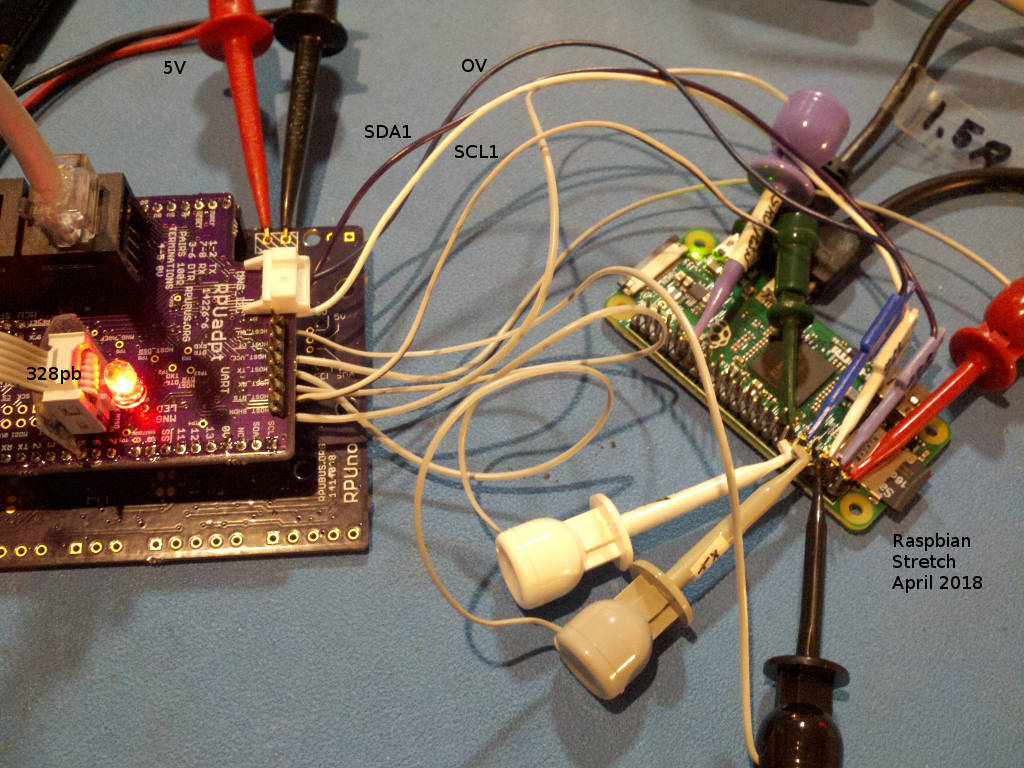
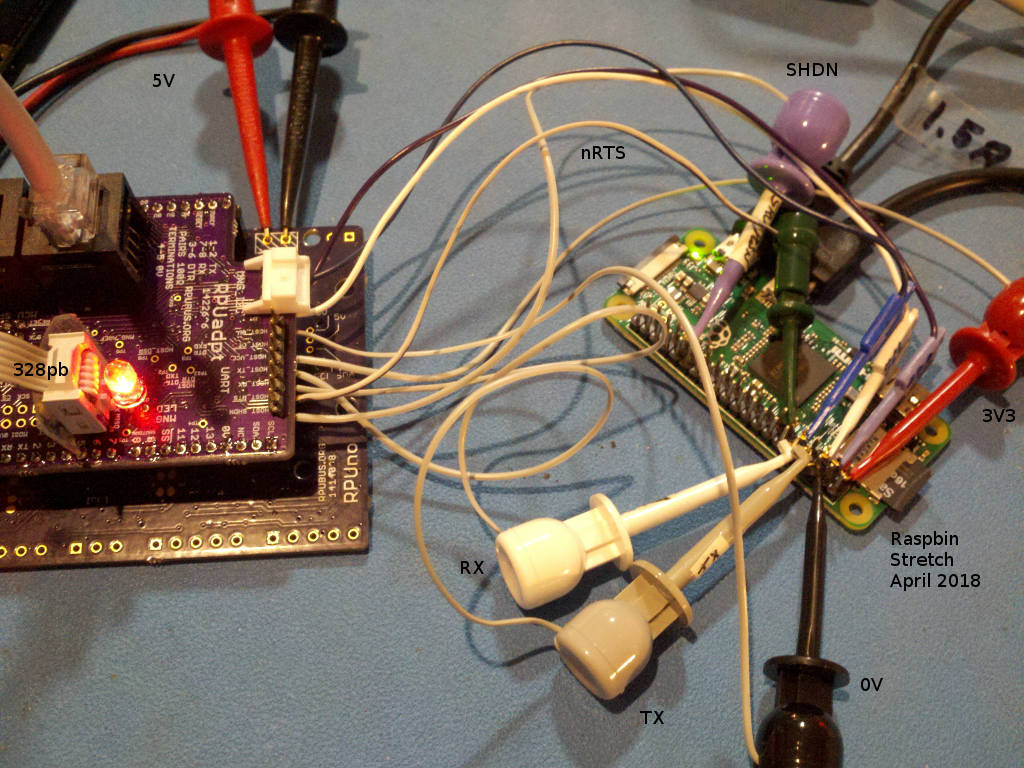
Hardware: ^6 eval spi

diff --git a/Hardware/Evaluation/readme.md b/Hardware/Evaluation/readme.md
@@ -22,7 +22,88 @@ This shows the setup and method used for evaluation of RPUadpt.
 
 ## ^6 SPI Checked With Raspberry Pi
 
-To Do.
+The unit under test is at address '1'. So first I need to bootload its local RPU (a junk RPUno^8) with [SpiSlv].
+
+[SpiSlv]:https://github.com/epccs/RPUno/tree/master/SpiSlv
+
+Set the booload address on what ever shield is connected to the host that will build [SpiSlv] and upload it. Guess I will just use the new I2C1 interface to do this.
+
+``` 
+# first set user premision to use the SPI port
+sudo usermod -a -G spi rsutherland
+python3
+import smbus
+bus = smbus.SMBus(1)
+bus.write_i2c_block_data(42, 0, [0])
+chr(bus.read_i2c_block_data(42,0, 2)[1])
+'1'
+# with command 0 on I2C1 the local address is was seen as ascii '1' or 49
+bus.write_i2c_block_data(42, 2, [0])
+chr(bus.read_i2c_block_data(42,0, 2)[1])
+'0'
+# command 2 showed the bootload address which was '0'
+# which will be canged to '1' with command 3
+bus.write_i2c_block_data(42, 3, [49])
+chr(bus.read_i2c_block_data(42,0, 2)[1])
+'1'
+bus.write_i2c_block_data(42, 7, [0])
+print(bus.read_i2c_block_data(42,0, 2))
+[7, 0]
+# command 7 was used to clear the local status bits, the host lockout bit was set at power up.
+exit()
+# next check that RPU '1' is blinking fast
+picocom -b 38400 /dev/ttyAMA0
+...
+Terminal ready
+# C-a, C-x.
+# now change the working directory to where SpiSlv is and then build and upload
+cd ~/wher_you_told_git_to_clone/RPUno/SpiSlv
+make bootload
+...
+avrdude done.  Thank you.
+gcc -o spidev_test spidev_test.c
+chmod ugo+x ./spidev_test
+# logout for the change to take
+# trun on the RPU SPI port
+picocom -b 38400 /dev/ttyAMA0
+...
+Terminal ready
+/1/id?
+{"id":{"name":"SpiSlv","desc":"RPUno (14140^9) Board /w atmega328p","avr-gcc":"4.9.2"}}
+/1/spi UP
+{"SPI":"UP"}
+# C-a, C-x.
+# test with
+./spidev_test -s 1000 -D /dev/spidev0.0
+./spidev_test -s 10000 -D /dev/spidev0.0
+./spidev_test -s 100000 -D /dev/spidev0.0
+./spidev_test -s 250000 -D /dev/spidev0.0
+./spidev_test -s 500000 -D /dev/spidev0.0
+# next test fail on my setup which is using a weak pullup 
+# for SCK, nSS, and MOSI that input into a ATmega328p
+./spidev_test -s 1000000 -D /dev/spidev0.0
+./spidev_test -s 2000000 -D /dev/spidev0.0
+```
+
+The test output should look like this
+
+```
+spi mode: 0
+bits per word: 8
+max speed: 500000 Hz (500 KHz)
+
+0D FF FF FF FF FF
+FF 40 00 00 00 00
+95 FF FF FF FF FF
+FF FF FF FF FF FF
+FF FF FF FF FF FF
+FF DE AD BE EF BA
+AD F0
+``` 
+
+The maximum speed seen is 500kHz. Adding 3k Ohm pullup on R32, R34, and R37 should allow higher speed.
+
+![^6_fwRemote_RPU_fwSpiSlv_Rpi](./RPUadpt^6_fwRemote_RPUno^8_fwSpiSlv_RaspberryPi.jpg "^6 fwRemote RPU fwSpiSlv and Rpi")
 
 
 ## ^6 Serial Checked With Raspberry Pi
@@ -142,6 +223,8 @@ The Debain mainline starting at buster allows using the Atmel support packages, 
 ```
 
 I am not using SPI or the other serial port from the manager on this board so those are not going to be looked at.
+
+When ISCP is used the managers control of the shutdown pin will end and it will float. The Raspberry Pi should then halt. Nothing bad should happen, but it meas the Raspberry Pi can not be the ICSP tool. 
 
 
 ## ^5 Remote Reset
